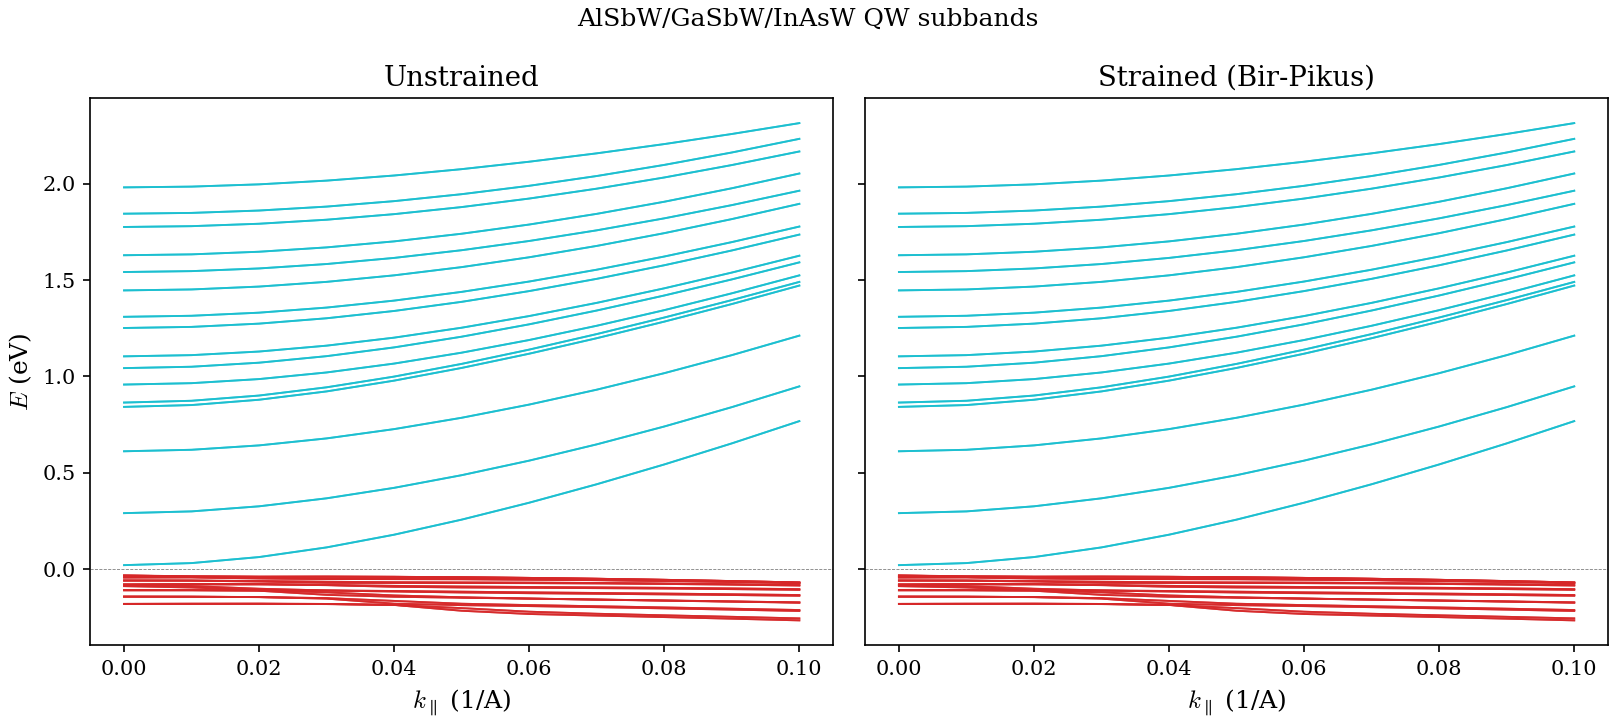
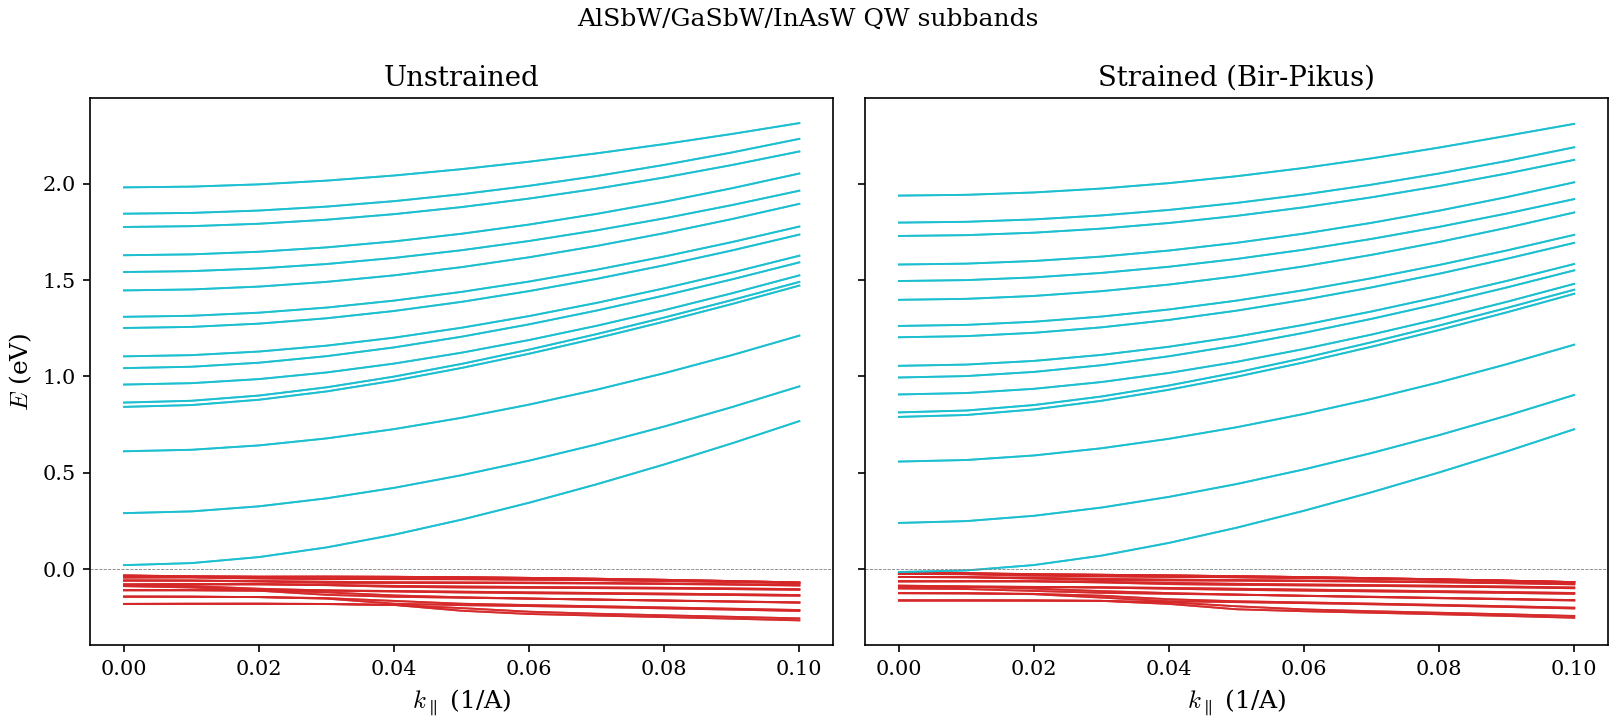
fix: resolve QW strained bands segfault and BdG profile test failure
Two bugs fixed:

1. QW strained bands SIGSEGV (exit 139) with -O3 + OpenMP:
   gfortran creates temporary array copies when passing allocatable
   derived-type components to add_bp_strain_dense. These temporaries
   corrupt memory under -O3 optimization + multi-threaded k-sweep.
   Fix: inline strain application with scalar extracts in ZB8bandQW;
   remove final binding from bir_pikus_blocks (prevents finalizer
   deallocation of compiler temporaries); add scalar variant
   apply_bp_strain_inline for bulk path.

2. test_bdg_hamiltonian flaky failure at OMP_NUM_THREADS>=12:
   compute_majorana_profile wrote nspatial elements to profile but
   left remaining elements uninitialized (garbage from stack).
   Fix: zero-initialize profile before copying rho.

53/53 tests pass at -O3 with 12 threads. qw_strained_bands figure
now generates successfully.

diff --git a/docs/plans/phase4-discrepancy-log.md b/docs/plans/phase4-discrepancy-log.md
@@ -11,7 +11,7 @@ Total PNG files generated: 77 in `docs/figures/` + 9 in `docs/lecture/figures/` 
 
 | Figure | Issue | Root Cause | Fix | Status |
 |--------|-------|------------|-----|--------|
-| `qw_strained_bands` | Strained QW run segfaults (rc=-11). Unstrained panel works. Stale PNG from 2026-04-25 remains. | SIGSEGV in eigensolver after strain modification of QW Hamiltonian with `strain_ref: AlSbW` on `qw_alsbw_gasbw_inasw.cfg`. Strain calculation completes ("QW strain calculation complete") but eigensolver crashes. Likely array bounds or memory corruption when strain shifts Hamiltonian elements. Wire strain (confinement=2) works fine; only QW strain (confinement=1) fails. | Not yet fixed. Needs debugging in `hamiltonianConstructor.f90` or `strain_solver.f90` for QW strain path. | Open |
+| `qw_strained_bands` | Fixed. Was: SIGSEGV in strained QW run (rc=-11). | gfortran -O3 created temporary array copies when passing allocatable derived-type components to `add_bp_strain_dense`, corrupting memory under OpenMP. Also: `compute_majorana_profile` left profile array partially uninitialized. | Inlined strain application with scalar extracts in `ZB8bandQW`; added scalar `apply_bp_strain_inline` for bulk; zero-initialized profile output in `compute_majorana_profile`. | Fixed |
 | `timing_dense_vs_sparse` | Wire (sparse) run exceeds 300s timeout. Stale PNG from 2026-04-25 remains. | `wire_gaas_rectangle.cfg` with full kz-sweep takes >300s on this hardware. The `run_executable` default timeout is 300s. | Increase timeout in `fig_timing_dense_vs_sparse` to 600s, or reduce wire grid size for benchmark. | Open |
 
 ## Physics Sanity Checks (all pass)